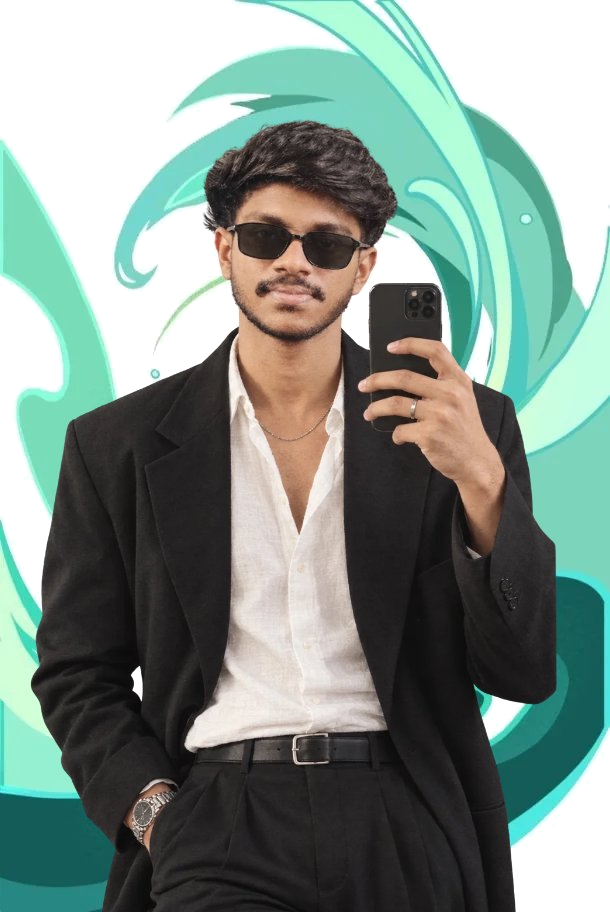
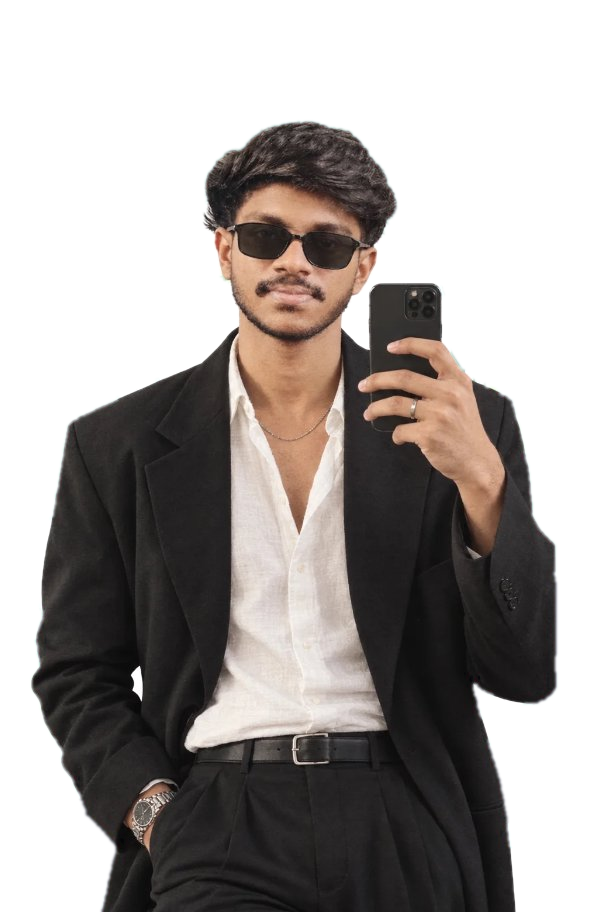
fix: make hero image a clean transparent cutout eliminating all borders and edges

diff --git a/index.html b/index.html
@@ -266,8 +266,8 @@
             <!-- Center Cutout Photo: Mohammed Basith Mirror Selfie (High Resolution) -->
             <div class="hero-photo-wrap" id="heroPhotoWrap">
               <img class="hero-photo" id="heroPhoto"
-                   src="/images/basith-hero-splash.png?v=3"
-                   alt="mohammed basith — mirror selfie in black suit with aqua artistic splash"
+                   src="/images/basith-hero-splash.png?v=clean-cutout-4"
+                   alt="mohammed basith — mirror selfie in black suit with sunglasses"
                    width="610" height="912"
                    loading="eager" decoding="async" />
             </div>
